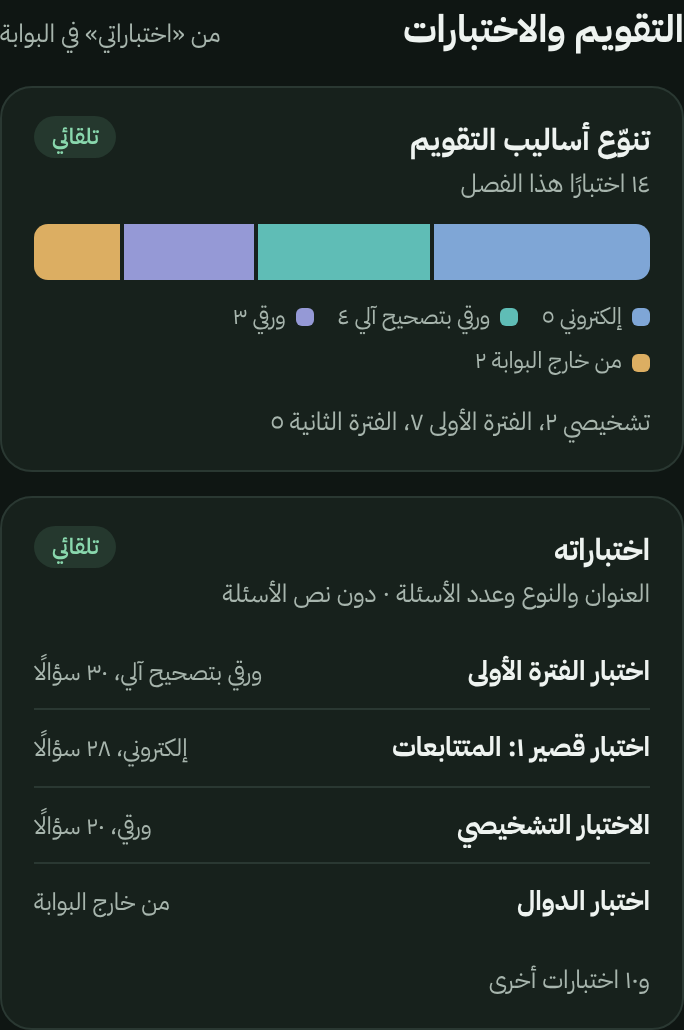
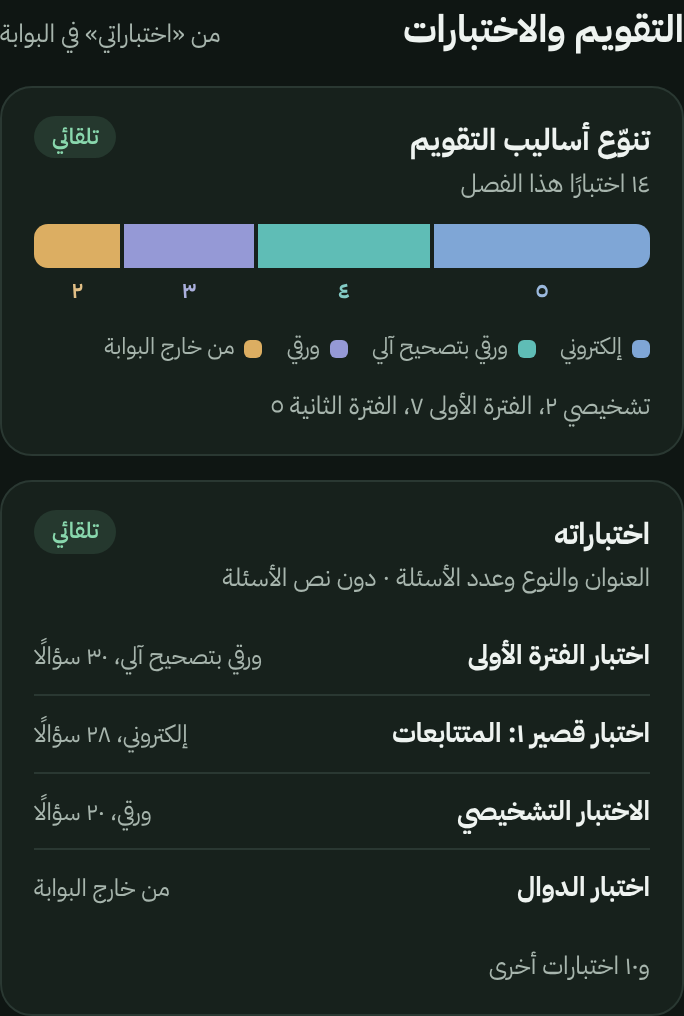
ملف المعلم الرقمي: عدد كل نوع تحت لونه في تنوّع أساليب التقويم
Claude-Session: https://claude.ai/code/session_01QzqWfYFyUodUKxUMNwYvZ2

diff --git a/docs/teacher-digital-file/prototype.html b/docs/teacher-digital-file/prototype.html
@@ -205,7 +205,7 @@ section.sec { display: grid; gap: 12px; scroll-margin-top: 64px; }
 .dist i { display: block; width: 100%; height: 22px; background: var(--c); }
 .dist > span:first-child i { border-start-start-radius: 7px; border-end-start-radius: 7px; }
 .dist > span:last-child i { border-start-end-radius: 7px; border-end-end-radius: 7px; }
-.dist small { font-size: 10.5px; color: color-mix(in srgb, var(--c), var(--ink) 25%); font-weight: 600; white-space: nowrap; }
+.dist small { font-size: 11.5px; color: color-mix(in srgb, var(--c), var(--ink) 25%); font-weight: 600; white-space: nowrap; }
 .cls { align-items: start; }
 .cls > span { line-height: 22px; }
 .qlist { list-style: none; margin: 0; padding: 0; display: grid; }
@@ -595,8 +595,8 @@ section.sec { display: grid; gap: 12px; scroll-margin-top: 64px; }
     <div class="sec-h"><h2>التقويم والاختبارات</h2><p>من «اختباراتي» في البوابة</p></div>
       <div class="card">
         <div class="card-h"><div><h3>تنوّع أساليب التقويم</h3><p class="sub">١٤ اختبارًا هذا الفصل</p></div><span class="src auto">تلقائي</span></div>
-        <div class="stack" style="height:28px"><i style="flex:5;background:var(--e04)"></i><i style="flex:4;background:var(--e03)"></i><i style="flex:3;background:var(--e05)"></i><i style="flex:2;background:var(--e09)"></i></div>
-        <div class="keys"><span><i style="background:var(--e04)"></i>إلكتروني ٥</span><span><i style="background:var(--e03)"></i>ورقي بتصحيح آلي ٤</span><span><i style="background:var(--e05)"></i>ورقي ٣</span><span><i style="background:var(--e09)"></i>من خارج البوابة ٢</span></div>
+        <div class="dist"><span style="flex:5;--c:var(--e04)"><i></i><small class="num">٥</small></span><span style="flex:4;--c:var(--e03)"><i></i><small class="num">٤</small></span><span style="flex:3;--c:var(--e05)"><i></i><small class="num">٣</small></span><span style="flex:2;--c:var(--e09)"><i></i><small class="num">٢</small></span></div>
+        <div class="keys"><span><i style="background:var(--e04)"></i>إلكتروني</span><span><i style="background:var(--e03)"></i>ورقي بتصحيح آلي</span><span><i style="background:var(--e05)"></i>ورقي</span><span><i style="background:var(--e09)"></i>من خارج البوابة</span></div>
         <p class="sub num">تشخيصي ٢، الفترة الأولى ٧، الفترة الثانية ٥</p>
       </div>
     <div class="card">
